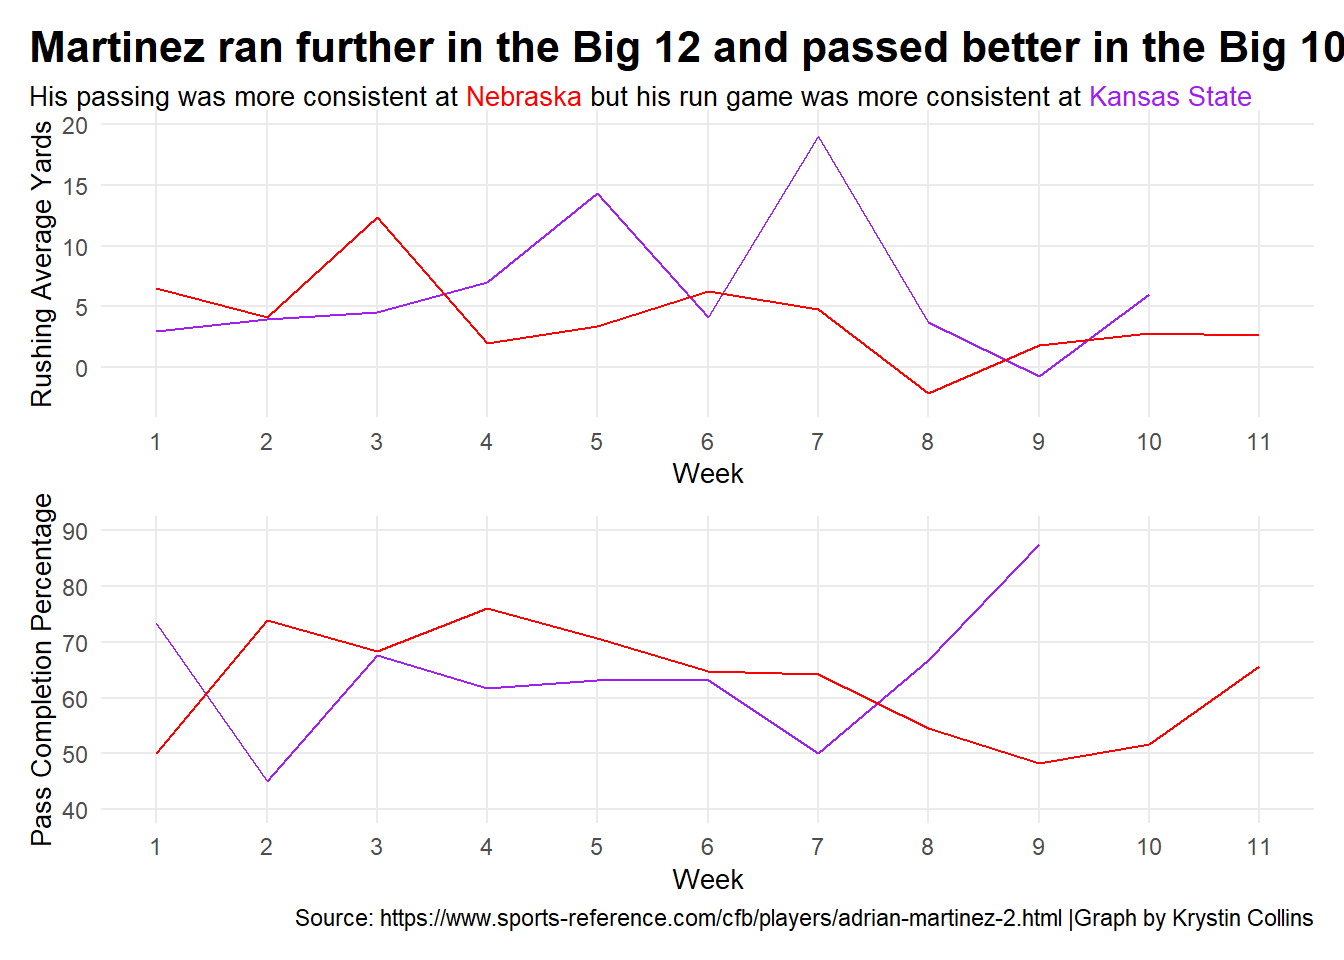
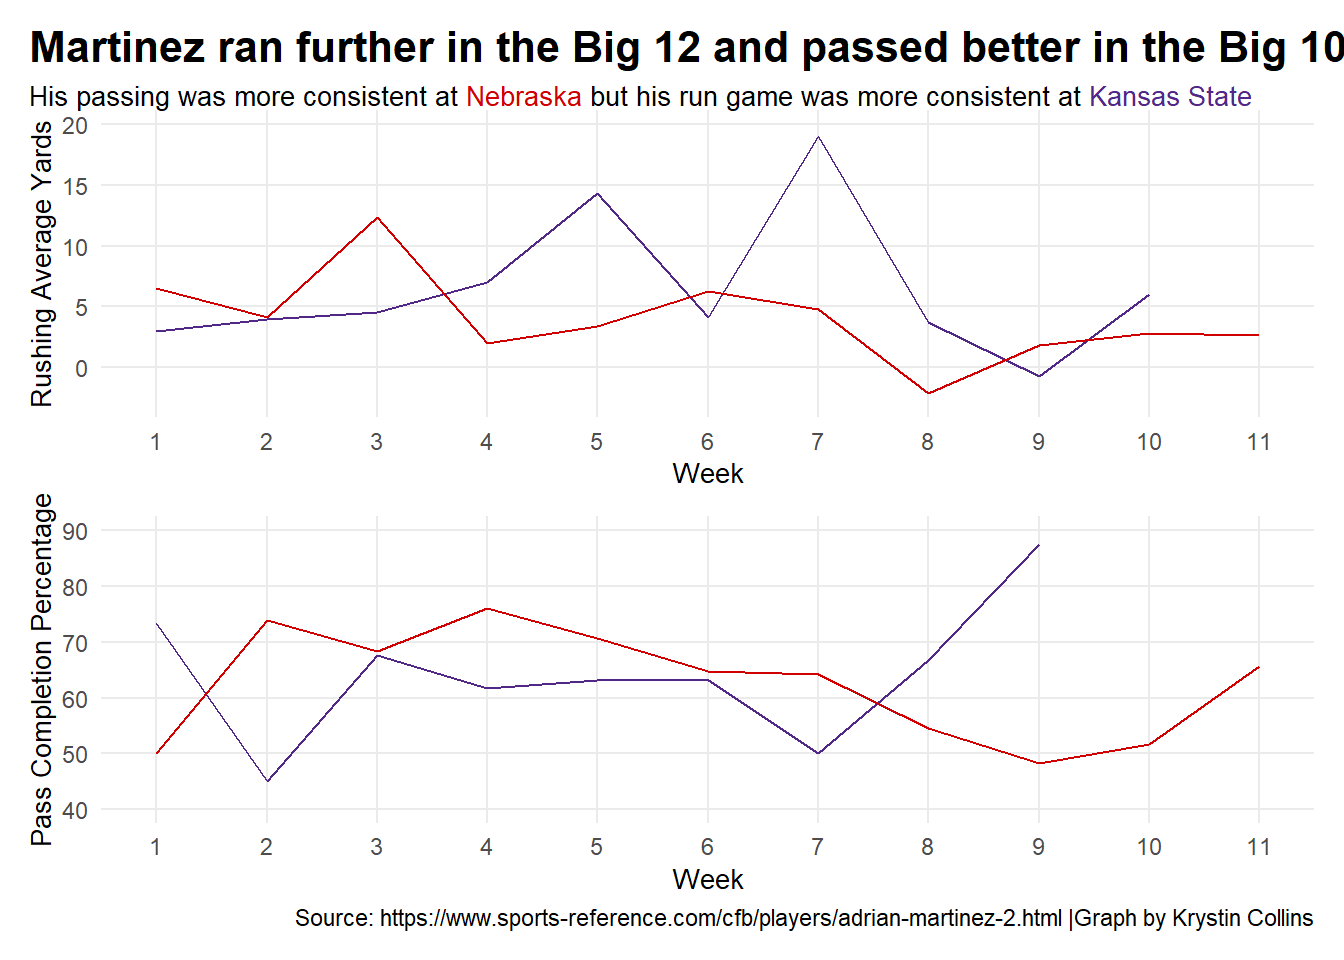
pushhhh

diff --git a/posts/adrians-move-from-nebraska/index.html b/posts/adrians-move-from-nebraska/index.html
@@ -216,8 +216,8 @@ pre > code.sourceCode > span > a:first-child::before { text-decoration: underlin
 <span id="cb1-15"><a href="#cb1-15" aria-hidden="true" tabindex="-1"></a>  <span class="fu">filter</span>(<span class="sc">!</span><span class="fu">is.na</span>(PassPct))</span>
 <span id="cb1-16"><a href="#cb1-16" aria-hidden="true" tabindex="-1"></a></span>
 <span id="cb1-17"><a href="#cb1-17" aria-hidden="true" tabindex="-1"></a>passing <span class="ot">&lt;-</span> <span class="fu">ggplot</span>() <span class="sc">+</span></span>
-<span id="cb1-18"><a href="#cb1-18" aria-hidden="true" tabindex="-1"></a>  <span class="fu">geom_line</span>(<span class="at">data=</span>fixedm22, <span class="fu">aes</span>(<span class="at">x=</span>Rk, <span class="at">y=</span>PassPct), <span class="at">color=</span><span class="st">"purple"</span>) <span class="sc">+</span></span>
-<span id="cb1-19"><a href="#cb1-19" aria-hidden="true" tabindex="-1"></a>  <span class="fu">geom_line</span>(<span class="at">data=</span>m21, <span class="fu">aes</span>(<span class="at">x=</span>Rk, <span class="at">y=</span>PassPct), <span class="at">color =</span> <span class="st">"red"</span>) <span class="sc">+</span></span>
+<span id="cb1-18"><a href="#cb1-18" aria-hidden="true" tabindex="-1"></a>  <span class="fu">geom_line</span>(<span class="at">data=</span>fixedm22, <span class="fu">aes</span>(<span class="at">x=</span>Rk, <span class="at">y=</span>PassPct), <span class="at">color=</span><span class="st">"#512888"</span>) <span class="sc">+</span></span>
+<span id="cb1-19"><a href="#cb1-19" aria-hidden="true" tabindex="-1"></a>  <span class="fu">geom_line</span>(<span class="at">data=</span>m21, <span class="fu">aes</span>(<span class="at">x=</span>Rk, <span class="at">y=</span>PassPct), <span class="at">color =</span> <span class="st">"#d00000"</span>) <span class="sc">+</span></span>
 <span id="cb1-20"><a href="#cb1-20" aria-hidden="true" tabindex="-1"></a>  <span class="fu">scale_y_continuous</span>(<span class="at">limits =</span> <span class="fu">c</span>(<span class="dv">40</span>,<span class="dv">90</span>)) <span class="sc">+</span></span>
 <span id="cb1-21"><a href="#cb1-21" aria-hidden="true" tabindex="-1"></a>  <span class="fu">scale_x_continuous</span>(<span class="at">breaks =</span> <span class="dv">1</span><span class="sc">:</span><span class="dv">11</span>, <span class="at">labels =</span> <span class="fu">paste</span>( <span class="dv">1</span><span class="sc">:</span><span class="dv">11</span>)) <span class="sc">+</span></span>
 <span id="cb1-22"><a href="#cb1-22" aria-hidden="true" tabindex="-1"></a>  <span class="fu">theme_minimal</span>() <span class="sc">+</span></span>
@@ -234,15 +234,15 @@ pre > code.sourceCode > span > a:first-child::before { text-decoration: underlin
 <span id="cb1-33"><a href="#cb1-33" aria-hidden="true" tabindex="-1"></a>  )</span>
 <span id="cb1-34"><a href="#cb1-34" aria-hidden="true" tabindex="-1"></a></span>
 <span id="cb1-35"><a href="#cb1-35" aria-hidden="true" tabindex="-1"></a>rushing <span class="ot">&lt;-</span> <span class="fu">ggplot</span>() <span class="sc">+</span></span>
-<span id="cb1-36"><a href="#cb1-36" aria-hidden="true" tabindex="-1"></a>  <span class="fu">geom_line</span>(<span class="at">data=</span>m22, <span class="fu">aes</span>(<span class="at">x=</span>Rk, <span class="at">y=</span>RushAvg), <span class="at">color=</span><span class="st">"purple"</span>) <span class="sc">+</span></span>
-<span id="cb1-37"><a href="#cb1-37" aria-hidden="true" tabindex="-1"></a>  <span class="fu">geom_line</span>(<span class="at">data=</span>m21, <span class="fu">aes</span>(<span class="at">x=</span>Rk, <span class="at">y=</span>RushAvg), <span class="at">color =</span> <span class="st">"red"</span>) <span class="sc">+</span></span>
+<span id="cb1-36"><a href="#cb1-36" aria-hidden="true" tabindex="-1"></a>  <span class="fu">geom_line</span>(<span class="at">data=</span>m22, <span class="fu">aes</span>(<span class="at">x=</span>Rk, <span class="at">y=</span>RushAvg), <span class="at">color=</span><span class="st">"#512888"</span>) <span class="sc">+</span></span>
+<span id="cb1-37"><a href="#cb1-37" aria-hidden="true" tabindex="-1"></a>  <span class="fu">geom_line</span>(<span class="at">data=</span>m21, <span class="fu">aes</span>(<span class="at">x=</span>Rk, <span class="at">y=</span>RushAvg), <span class="at">color =</span> <span class="st">"#d00000"</span>) <span class="sc">+</span></span>
 <span id="cb1-38"><a href="#cb1-38" aria-hidden="true" tabindex="-1"></a>  <span class="fu">scale_y_continuous</span>(<span class="at">limits =</span> <span class="fu">c</span>(<span class="sc">-</span><span class="dv">3</span>, <span class="dv">20</span>)) <span class="sc">+</span></span>
 <span id="cb1-39"><a href="#cb1-39" aria-hidden="true" tabindex="-1"></a>  <span class="fu">scale_x_continuous</span>(<span class="at">breaks =</span> <span class="dv">1</span><span class="sc">:</span><span class="dv">11</span>, <span class="at">labels =</span> <span class="fu">paste</span>( <span class="dv">1</span><span class="sc">:</span><span class="dv">11</span>)) <span class="sc">+</span></span>
 <span id="cb1-40"><a href="#cb1-40" aria-hidden="true" tabindex="-1"></a>  <span class="fu">theme_minimal</span>() <span class="sc">+</span></span>
 <span id="cb1-41"><a href="#cb1-41" aria-hidden="true" tabindex="-1"></a>  <span class="fu">labs</span>(</span>
 <span id="cb1-42"><a href="#cb1-42" aria-hidden="true" tabindex="-1"></a>    <span class="at">x =</span> <span class="st">"Week"</span>, <span class="at">y =</span> <span class="st">"Rushing Average Yards"</span>,</span>
 <span id="cb1-43"><a href="#cb1-43" aria-hidden="true" tabindex="-1"></a>    <span class="at">title =</span> <span class="st">"Martinez ran further in the Big 12 and passed better in the Big 10"</span>,</span>
-<span id="cb1-44"><a href="#cb1-44" aria-hidden="true" tabindex="-1"></a>    <span class="at">subtitle =</span> <span class="st">"His passing was more consistent at &lt;span style = 'color:red;'&gt;Nebraska&lt;/span&gt; but his run game was more consistent at &lt;span style = 'color:purple;'&gt;Kansas State&lt;/span&gt;"</span>,</span>
+<span id="cb1-44"><a href="#cb1-44" aria-hidden="true" tabindex="-1"></a>    <span class="at">subtitle =</span> <span class="st">"His passing was more consistent at &lt;span style = 'color:#d00000;'&gt;Nebraska&lt;/span&gt; but his run game was more consistent at &lt;span style = 'color:#512888;'&gt;Kansas State&lt;/span&gt;"</span>,</span>
 <span id="cb1-45"><a href="#cb1-45" aria-hidden="true" tabindex="-1"></a>  ) <span class="sc">+</span></span>
 <span id="cb1-46"><a href="#cb1-46" aria-hidden="true" tabindex="-1"></a>  <span class="fu">theme_minimal</span>() <span class="sc">+</span></span>
 <span id="cb1-47"><a href="#cb1-47" aria-hidden="true" tabindex="-1"></a>  <span class="fu">theme</span>(</span>
@@ -288,7 +288,7 @@ pre > code.sourceCode > span > a:first-child::before { text-decoration: underlin
 <span id="cb2-17"><a href="#cb2-17" aria-hidden="true" tabindex="-1"></a>  <span class="fu">coord_flip</span>() <span class="sc">+</span></span>
 <span id="cb2-18"><a href="#cb2-18" aria-hidden="true" tabindex="-1"></a>  <span class="fu">labs</span>(</span>
 <span id="cb2-19"><a href="#cb2-19" aria-hidden="true" tabindex="-1"></a>    <span class="at">title =</span> <span class="st">"Martinez's arm was always in the air at Nebraska"</span>, </span>
-<span id="cb2-20"><a href="#cb2-20" aria-hidden="true" tabindex="-1"></a>    <span class="at">subtitle =</span> <span class="st">"Nebraska had a passing offense in 2022, Kansas State did not"</span>,</span>
+<span id="cb2-20"><a href="#cb2-20" aria-hidden="true" tabindex="-1"></a>    <span class="at">subtitle =</span> <span class="st">"&lt;span style = 'color:#d00000;'&gt;Nebraska&lt;/span&gt; had a passing offense in 2022, &lt;span style = 'color:#512888;'&gt;Kansas State&lt;/span&gt; did not"</span>,</span>
 <span id="cb2-21"><a href="#cb2-21" aria-hidden="true" tabindex="-1"></a>    <span class="at">x =</span> <span class="st">"Opponent"</span>, </span>
 <span id="cb2-22"><a href="#cb2-22" aria-hidden="true" tabindex="-1"></a>    <span class="at">y =</span> <span class="st">"Passing Yards"</span>,</span>
 <span id="cb2-23"><a href="#cb2-23" aria-hidden="true" tabindex="-1"></a>    <span class="at">caption =</span> <span class="st">"Source: https://www.sports-reference.com/cfb/| Graph by Krystin Collins"</span></span>
@@ -296,7 +296,7 @@ pre > code.sourceCode > span > a:first-child::before { text-decoration: underlin
 <span id="cb2-25"><a href="#cb2-25" aria-hidden="true" tabindex="-1"></a>  <span class="fu">theme_minimal</span>() <span class="sc">+</span></span>
 <span id="cb2-26"><a href="#cb2-26" aria-hidden="true" tabindex="-1"></a>  <span class="fu">theme</span>(</span>
 <span id="cb2-27"><a href="#cb2-27" aria-hidden="true" tabindex="-1"></a>    <span class="at">plot.title =</span> <span class="fu">element_text</span>(<span class="at">size =</span> <span class="dv">16</span>, <span class="at">face =</span> <span class="st">"bold"</span>),</span>
-<span id="cb2-28"><a href="#cb2-28" aria-hidden="true" tabindex="-1"></a>    <span class="at">plot.subtitle =</span> <span class="fu">element_text</span>(<span class="at">size =</span> <span class="dv">10</span>),</span>
+<span id="cb2-28"><a href="#cb2-28" aria-hidden="true" tabindex="-1"></a>    <span class="at">plot.subtitle =</span> <span class="fu">element_textbox_simple</span>(<span class="at">size =</span> <span class="dv">10</span>),</span>
 <span id="cb2-29"><a href="#cb2-29" aria-hidden="true" tabindex="-1"></a>    <span class="at">axis.title =</span> <span class="fu">element_text</span>(<span class="at">size =</span> <span class="dv">10</span>),</span>
 <span id="cb2-30"><a href="#cb2-30" aria-hidden="true" tabindex="-1"></a>    <span class="at">panel.grid.minor =</span> <span class="fu">element_blank</span>(),</span>
 <span id="cb2-31"><a href="#cb2-31" aria-hidden="true" tabindex="-1"></a>    <span class="at">plot.title.position =</span> <span class="st">"plot"</span></span>
@@ -327,13 +327,13 @@ pre > code.sourceCode > span > a:first-child::before { text-decoration: underlin
 <span id="cb3-8"><a href="#cb3-8" aria-hidden="true" tabindex="-1"></a>    <span class="at">x =</span> <span class="st">"Opponent"</span>, </span>
 <span id="cb3-9"><a href="#cb3-9" aria-hidden="true" tabindex="-1"></a>    <span class="at">y =</span> <span class="st">"Rushing Yards"</span>,</span>
 <span id="cb3-10"><a href="#cb3-10" aria-hidden="true" tabindex="-1"></a>    <span class="at">title =</span> <span class="st">"Martinez's hit the ground running at Kansas State"</span>, </span>
-<span id="cb3-11"><a href="#cb3-11" aria-hidden="true" tabindex="-1"></a>    <span class="at">subtitle =</span> <span class="st">"Kansas State liked to run the ball on offense in 2022, Nebraska not so much"</span>,</span>
+<span id="cb3-11"><a href="#cb3-11" aria-hidden="true" tabindex="-1"></a>    <span class="at">subtitle =</span> <span class="st">"&lt;span style = 'color:#512888;'&gt;Kansas State&lt;/span&gt; liked to run the ball on offense in 2022, &lt;span style = 'color:#d00000;'&gt;Nebraska&lt;/span&gt; not so much"</span>,</span>
 <span id="cb3-12"><a href="#cb3-12" aria-hidden="true" tabindex="-1"></a>    <span class="at">caption =</span> <span class="st">"Source: https://www.sports-reference.com/cfb/| Graph by Krystin Collins"</span></span>
 <span id="cb3-13"><a href="#cb3-13" aria-hidden="true" tabindex="-1"></a>  ) <span class="sc">+</span>  </span>
 <span id="cb3-14"><a href="#cb3-14" aria-hidden="true" tabindex="-1"></a>  <span class="fu">theme_minimal</span>() <span class="sc">+</span></span>
 <span id="cb3-15"><a href="#cb3-15" aria-hidden="true" tabindex="-1"></a>  <span class="fu">theme</span>(</span>
 <span id="cb3-16"><a href="#cb3-16" aria-hidden="true" tabindex="-1"></a>    <span class="at">plot.title =</span> <span class="fu">element_text</span>(<span class="at">size =</span> <span class="dv">16</span>, <span class="at">face =</span> <span class="st">"bold"</span>),</span>
-<span id="cb3-17"><a href="#cb3-17" aria-hidden="true" tabindex="-1"></a>    <span class="at">plot.subtitle =</span> <span class="fu">element_text</span>(<span class="at">size =</span> <span class="dv">10</span>),</span>
+<span id="cb3-17"><a href="#cb3-17" aria-hidden="true" tabindex="-1"></a>    <span class="at">plot.subtitle =</span> <span class="fu">element_textbox_simple</span>(<span class="at">size =</span> <span class="dv">10</span>),</span>
 <span id="cb3-18"><a href="#cb3-18" aria-hidden="true" tabindex="-1"></a>    <span class="at">axis.title =</span> <span class="fu">element_text</span>(<span class="at">size =</span> <span class="dv">10</span>),</span>
 <span id="cb3-19"><a href="#cb3-19" aria-hidden="true" tabindex="-1"></a>    <span class="at">panel.grid.minor =</span> <span class="fu">element_blank</span>(),</span>
 <span id="cb3-20"><a href="#cb3-20" aria-hidden="true" tabindex="-1"></a>    <span class="at">plot.title.position =</span> <span class="st">"plot"</span></span>

diff --git a/index.html b/index.html
@@ -210,7 +210,7 @@ window.Quarto = {
 
 <div class="quarto-listing quarto-listing-container-default" id="listing-listing">
 <div class="list quarto-listing-default">
-<div class="quarto-post image-right" data-index="0" data-categories="Zm9vdGJhbGw=" data-listing-date-sort="1731823200000" data-listing-file-modified-sort="1731784784824" data-listing-date-modified-sort="NaN" data-listing-reading-time-sort="7" data-listing-word-count-sort="1348">
+<div class="quarto-post image-right" data-index="0" data-categories="Zm9vdGJhbGw=" data-listing-date-sort="1731823200000" data-listing-file-modified-sort="1731788325879" data-listing-date-modified-sort="NaN" data-listing-reading-time-sort="7" data-listing-word-count-sort="1347">
 <div class="thumbnail">
 <p><a href="./posts/adrians-move-from-nebraska/index.html" class="no-external"></a></p><a href="./posts/adrians-move-from-nebraska/index.html" class="no-external">
 <p class="card-img-top"><img src="posts\adrians-move-from-nebraska\index_files\figure-html\unnamed-chunk-1-1.png"  class="thumbnail-image card-img"/></p>
